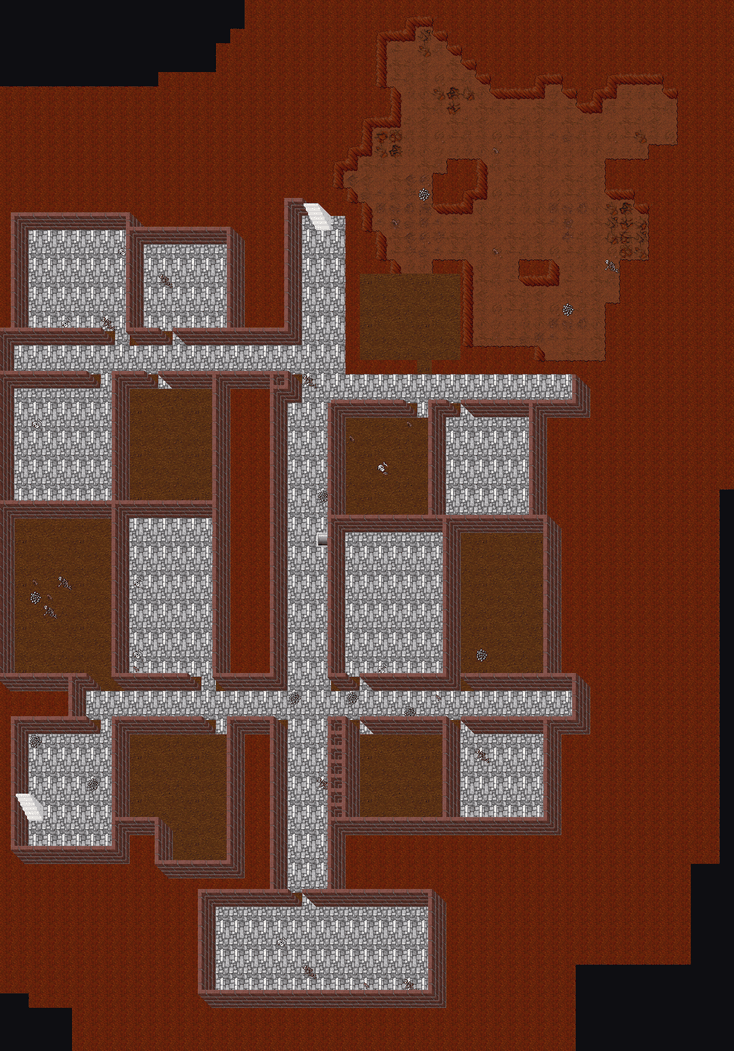
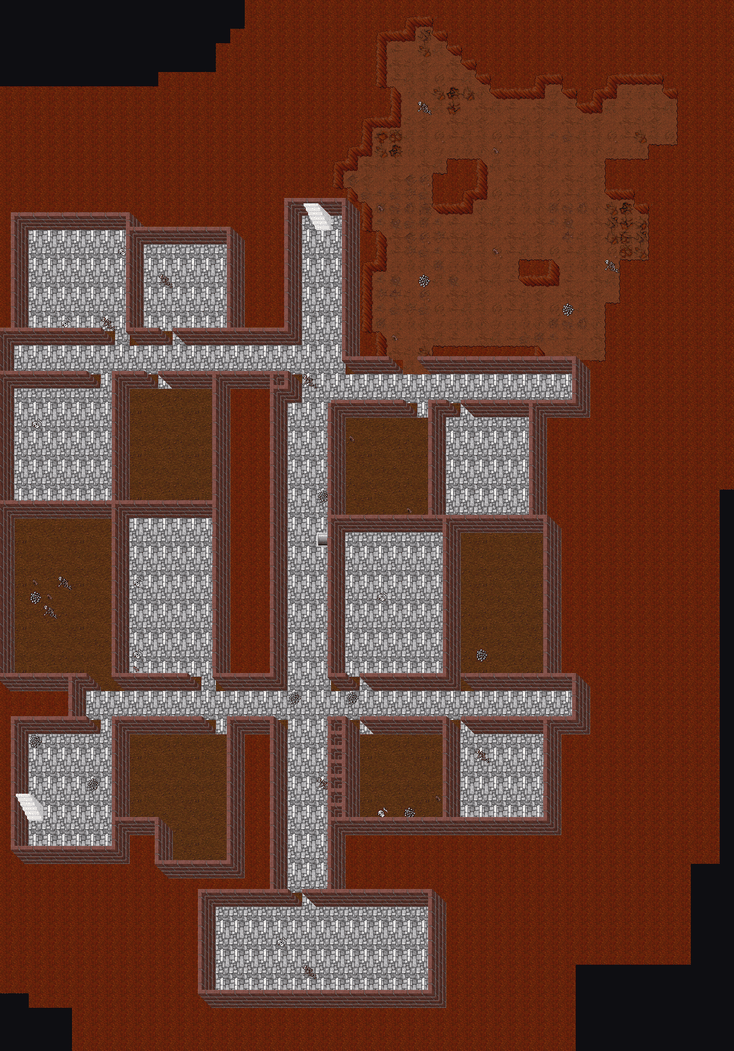
Dark Cathedral: antecamara J como camara de la cueva; la cueva ya no tapa paredes de ladrillo
La J era un cuadrado de tierra sin paredes pegado a la roca lisa (y los pasillos de al lado perdieron
la pared): cave_tiles vestia toda CAVE_BOX y solo se protegia el piso de las salas. Ahora J es una
camara de la cueva con boca de 2 casillas en el pasillo este (154-155,305), la cueva no pisa paredes
de ladrillo y el generador y audit-dark-cathedral.py fallan si un piso toca roca lisa 101.
Patron descartado documentado en DARK_CATHEDRAL.md y PIEZAS_DE_MAPA.md.

diff --git a/scripts/map/generate-dark-cathedral.py b/scripts/map/generate-dark-cathedral.py
@@ -149,7 +149,6 @@ AXIS_A, AXIS_B, AXIS_C = (29, 11, 31, 24), (28, 24, 30, 38), (28, 39, 30, 57)   
 H2 = (14, 44, 47, 45)                                       # pasillo sur
 ROOMS8 = [
     ("A", (10, 12, 16, 18), GREY), ("B", (18, 13, 23, 18), GREY),
-    ("J", (33, 15, 39, 20), DIRT),                          # antecámara de la cueva
     ("C", (9, 23, 15, 30), GREY), ("D", (17, 23, 22, 30), DIRT),
     ("K", (32, 25, 37, 31), DIRT), ("L", (39, 25, 44, 31), GREY),
     ("M", (9, 32, 15, 42), DIRT), ("N", (17, 32, 22, 42), GREY),
@@ -158,22 +157,26 @@ ROOMS8 = [
     ("S", (33, 47, 38, 52), DIRT), ("U", (40, 47, 45, 52), GREY),
     ("T", (23, 59, 37, 64), GREY),                          # sala del fondo
 ]
-LINKS8 = [("A", "H1A"), ("B", "H1A"), ("J", "H1B"),
+LINKS8 = [("A", "H1A"), ("B", "H1A"),
           ("C", "H1A"), ("D", "H1A"), ("K", "H1B"), ("L", "H1B"),
           ("M", "H2"), ("N", "H2"), ("O", "H2"), ("P", "H2"),
           ("Q", "H2"), ("R", "H2"), ("S", "H2"), ("U", "H2")]
 L_ROOMS8 = {"R": ((20, 52, 23, 55),)}                        # cola en L de la sala R
 # cueva NE: cámaras irregulares unidas por pasillos (como las salas G-J de la referencia).
 # Con la caja nueva hay margen al norte y al este, así que la red crece (no es sólo un desplazamiento).
+# La antecámara J de la referencia es una cámara más de la cueva, abierta al pasillo H1B. Antes era una
+# sala cuadrada de tierra y la cueva le pisaba las paredes: quedaba un recorte de tierra pegado a la roca
+# lisa, sin paredes (nov 2026, ver DARK_CATHEDRAL.md "Patrón descartado"). No volver a hacerla sala.
 CAVE_ROOMS = (((79, 26), 3.4), ((72, 23), 2.8), ((67, 28), 2.2), ((76, 31), 2.6),
               ((83, 32), 2.6), ((80, 38), 2.4), ((73, 37), 2.0), ((85, 24), 2.2),
-              ((70, 20), 2.0))
+              ((70, 20), 2.0), ((69, 37), 2.6))                # la última: antecámara J
 CAVE_LINKS = (((79, 26), (72, 23)), ((79, 26), (76, 31)), ((79, 26), (85, 24)),
               ((72, 23), (70, 20)), ((72, 23), (67, 28)), ((76, 31), (83, 32)),
               ((76, 31), (73, 37)), ((83, 32), (80, 38)), ((73, 37), (80, 38)),
-              ((67, 28), (73, 37)))
+              ((67, 28), (73, 37)), ((69, 37), (73, 37)), ((69, 37), (69, 40)))
 CAVE_BOX = (64, 17, 87, 42)
-CAVE_DOOR = ((69, 34), (70, 34))                            # entra desde la antecámara J
+CAVE_DOOR = ((69, 41), (70, 41))                            # boca: pared norte del pasillo H1B
+J_BOX8 = (66, 35, 72, 40)                                   # antecámara J (cámara de la cueva), para el spawn
 DOWN8 = (30, 33)                                            # agujero z8 -> z9
 
 MIRROR_X = 125                             # 2 * (DX + 29.5): eje de simetría del -2
@@ -258,7 +261,7 @@ ROOMS8_BOX = {n: b for n, b, _g in ROOMS8}                  # cajas ya desplazad
 SPAWNS8 = [
     ("A", ROOMS8_BOX["A"], [("Bandit", 2, 80), ("Smuggler", 1, 90)]),
     ("B", ROOMS8_BOX["B"], [("Wild Warrior", 2, 90), ("Bandit", 1, 80)]),
-    ("H1B", ROOMS8_BOX["J"], [("Bat", 1, 90), ("Centipede", 1, 110)]),
+    ("H1B", J_BOX8, [("Bat", 1, 90), ("Centipede", 1, 110)]),
     ("C", ROOMS8_BOX["C"], [("Bandit", 2, 80), ("Smuggler", 2, 90)]),
     ("D", ROOMS8_BOX["D"], [("Wild Warrior", 2, 90), ("Assassin", 1, 130)]),
     ("K", ROOMS8_BOX["K"], [("Slime", 2, 100), ("Poison Spider", 1, 110)]),
@@ -839,7 +842,7 @@ def main() -> int:
                        ("AXC", "AXB"), ("AXC", "H2"), ("AXC", "T")]
     t8, floor8, mask8 = build_zone(rooms8, links8, [], default_wall=BRICK, outside=ROCK)
     # cueva: discos unidos (contorno orgánico) que entra desde la sala J
-    cave = {CAVE_DOOR[0], CAVE_DOOR[1]}
+    cave = set(CAVE_DOOR)
     print(f"cueva z8: {len(cave)} casillas tras los discos")
     for (cx, cy), r in CAVE_ROOMS:
         for dx in range(-int(r) - 1, int(r) + 2):
@@ -875,10 +878,15 @@ def main() -> int:
     floor8 = (floor8 - cave) | cave                            # la cueva es piso: el relleno la rodea
     for c in grow(floor8 | mask8, 9):                          # 9 = media pantalla (8x6) + colchón:
         t8.setdefault(c, [ROCK])                               # sin esto se ve vacío negro al costado
+    walls8 = set(mask8)
     for c, it in cave_tiles.items():
-        if c not in rooms_floor8:                              # no pisa las salas de ladrillo
+        # no pisa las salas ni sus paredes de ladrillo (salvo la boca): si la cueva tapa la pared,
+        # el piso de la sala queda pegado a la roca lisa (era la antecámara J, nov 2026)
+        if c not in rooms_floor8 and (c not in walls8 or c in cave):
             t8[c] = it
     mask8 -= cave
+    for c in grow(set(CAVE_DOOR), 1) & mask8:                 # los extremos de pared junto a la boca
+        t8[c] = [t8[c][0], wall_piece(mask8, c, BRICK)]
     # lo que quedó suelto se vuelve roca (la cueva es una sola masa conectada a la boca)
     linked = set(reach(cave, CAVE_DOOR[0]))
     for c in cave - linked:
@@ -1035,6 +1043,16 @@ def main() -> int:
         if x < BAND[0] or x > W - 1 - BAND[0] or y < BAND[1] or y > H - 1 - BAND[1]:
             errors.append(f"z7 {(x, y)}: piso caminable dentro de la franja del borde")
             break
+
+    # ningún piso pegado a la roca lisa (101 sola): entre piso y relleno va pared de ladrillo o de cueva.
+    # Si no, se ve un recorte de tierra sin paredes (la antecámara J del -1, nov 2026).
+    for label, t, fl in (("z8", t8, walk8), ("z9", t9, walk9)):
+        for (x, y) in sorted(fl):
+            near = [(x + dx, y + dy) for dx in (-1, 0, 1) for dy in (-1, 0, 1)
+                    if t.get((x + dx, y + dy)) == [ROCK]]
+            if near:
+                errors.append(f"{label} {(x, y)}: piso pegado a roca lisa en {near[0]} (falta pared)")
+                break
 
     # cueva: ninguna roca de 1 casilla entre dos pisos (sin pieza posible: roca pelada)
     cave_f = {(x, y) for (x, y), it in t8.items() if it and it[0] in (CAVE_A, CAVE_B, CAVE_C)}

diff --git a/scripts/map/audit-dark-cathedral.py b/scripts/map/audit-dark-cathedral.py
@@ -14,6 +14,8 @@ Qué comprueba (error = sale con código 1):
   5. Spawns de test-spawn.xml dentro de la caja sobre piso pisable.
   6. Pilas raras: casillas sin ground, con 2+ grounds o con más de 2 ítems.
   7. Huesos de dragón cortados (3122-3127, 2247): partes del esqueleto grande, sueltas se ven mal.
+  7b. Piso pegado a la roca de relleno 101 sin pared en medio (se ve como un recorte de tierra sin
+      paredes; pasó con la antecámara J del -1).
 
 Informativo (no falla): decoración bloqueante en mitad de un paso (vecinos pisables en ambos
 ejes — los marcos de piedra de los agujeros van a aparecer, es a propósito) y, con --cuellos,
@@ -221,6 +223,20 @@ def main() -> int:
         if ((x, y - 1) in w and (x, y + 1) in w) or ((x - 1, y) in w and (x + 1, y) in w):
             if any(bl.blocks(i) for i in it[1:]):
                 notes.append(f"z{z} {x},{y}: {it} con paso pisable en ambos ejes")
+
+    # --- 7b. piso pegado a roca lisa (sin pared) ----------------------------------------------------
+    # Un piso al lado de la roca de relleno (101 sola) se ve como un recorte de tierra sin paredes:
+    # pasó en la antecámara J del -1 (nov 2026), cuando la cueva pisaba las paredes de ladrillo.
+    # Entre piso y relleno siempre tiene que haber pared (ladrillo / piedra) o pared de cueva 356-367.
+    print("\n=== 7b. piso pegado a roca lisa 101 (sin pared) ===")
+    bare = 0
+    for z in zs:
+        for (x, y) in sorted(walks[z]):
+            near = [(x + dx, y + dy) for dx, dy in ALL8 if it_at(x + dx, y + dy, z) == [ROCK]]
+            if near:
+                bare += 1
+                errors.append(f"z{z} {x},{y}: piso pegado a roca lisa en {near[0]}, items={it_at(x, y, z)}")
+    print(f"pisos pegados a roca lisa: {bare}")
 
     # --- 8. cuellos de botella (opcional, lento) ---------------------------------------------------
     if a.cuellos:

diff --git a/docs/items-and-map/DARK_CATHEDRAL.md b/docs/items-and-map/DARK_CATHEDRAL.md
@@ -23,7 +23,7 @@ manifiesto tenga la misma caja, para poder re-ejecutarlo).
 | Pisos | x (abs) | y (abs) | Local | Qué cubre |
 |-------|---------|---------|-------|-----------|
 | z7 | 85–183 | 264–373 | 0–98 × 0–109 | Jungla del borde, ríos en arco, explanada de tierra, nave, ruinas oeste/este, salón gris, explanada del portal |
-| z8 | 85–183 | 264–373 | 0–98 × 0–109 | Cripta -1: eje N-S, dos pasillos E-O, 16 salas, cueva natural de 270 casillas al NE |
+| z8 | 85–183 | 264–373 | 0–98 × 0–109 | Cripta -1: eje N-S, dos pasillos E-O, 16 salas, cueva natural de 313 casillas al NE |
 | z9 | 85–183 | 264–373 | 0–98 × 0–109 | Cripta -2: sala de columnas, octógono, brazos, anillo en zigzag, sala oval, sala sur y final |
 
 **Layout y desplazamiento.** El diseño se dibujó en un espacio de 60×70; con la caja nueva (99×110)
@@ -79,9 +79,9 @@ Coordenadas absolutas (las locales del generador son `abs − (118,284)`).
 | Pasillo norte | `127–148 × 304–305` (oeste) y `149–165 × 306–307` (este) | En dos tramos, a distinta altura |
 | Pasillo sur | `132–165 × 328–329` | Cruza el eje |
 | Salas | A `128–134 × 296–302` · B `136–141 × 297–302` · C `127–133 × 307–314` · D `135–140 × 307–314` · K `150–155 × 309–315` · L `157–162 × 309–315` · M `127–133 × 316–326` · N `135–140 × 316–326` · O `150–156 × 317–326` · P `158–163 × 317–326` · Q `128–133 × 331–338` · R `135–141 × 331–336` (+ cola en L hasta `y 339`) · S `151–156 × 331–336` · U `158–163 × 331–336` | Losa `431` en pasillos y salas grises, tierra `103` en las otras; puertas de una casilla |
-| Antecámara de la cueva | J `151–157 × 299–304` | Tierra, conecta el pasillo este con la cueva |
+| Antecámara J | `151–157 × 299–304` | Ya no es una sala: es una cámara más de la cueva, abierta al pasillo este (ver [Patrón descartado](#patrón-descartado-sala-cuadrada-de-tierra-pegada-a-la-cueva-18-nov-2026)) |
 | Sala del fondo | T `141–155 × 343–348` | Losa `431`, cierre del eje |
-| Cueva natural | `150–172 × 282–304` (270 casillas) | Nueve cámaras irregulares unidas por pasillos orgánicos (discos + conectores), piso de cueva `351`/`352`/`355`, paredes de roca `356–367`; boca de dos casillas en `154–155,298` hacia la antecámara J. Deja una casilla de pared contra las salas de ladrillo y lo que queda suelto se vuelve roca. Las rocas de 1 casilla entre dos pisos de cueva se cavan antes de vestir (sin pieza: quedarían peladas) |
+| Cueva natural | `150–172 × 282–305` (313 casillas) | Diez cámaras irregulares unidas por pasillos orgánicos (discos + conectores; la décima es la antecámara J), piso de cueva `351`/`352`/`355`, paredes de roca `356–367`; boca de dos casillas en `154–155,305`, en la pared norte del pasillo este. Deja una casilla de pared contra las salas de ladrillo, **no pisa las paredes de ladrillo** (salvo la boca) y lo que queda suelto se vuelve roca. Las rocas de 1 casilla entre dos pisos de cueva se cavan antes de vestir (sin pieza: quedarían peladas) |
 
 ### z9 — cripta (-2)
 
@@ -214,6 +214,7 @@ El generador, si algo falla, no escribe el `.otbm`.
 | Ids | todos los ítems existen en `items-zagan-test.otb` | 0 errores |
 | Monstruos | todos registrados en `monsters.xml` | 0 errores |
 | Spawns | cada bloque sobre piso caminable | 0 errores (125) |
+| Piso pegado a roca lisa | ninguna casilla pisable de z8/z9 con un `101` solo entre sus 8 vecinas (faltaría la pared) | 0 |
 | Rocas de 1 casilla | ninguna roca `101` con piso de cueva en dos cardinales opuestos (quedaría pelada) | 0 |
 | Vacío mismo piso | la media pantalla (8×6) de cada pisable de z8/z9 tiene tile dentro de la caja | 0 |
 | Escombros | `RUBBLE`/`STONE` nunca en mitad de un paso ni donde corten el único acceso | validado al colocar |
@@ -249,8 +250,8 @@ Cerca, no idéntico:
   cierra del todo (queda abierto al sudoeste, como en la referencia) y el agua es un cauce de ~6
   casillas, no un lago. El claro es una elipse irregular, más regular que el patio original.
 - **Piso -1.** La referencia tiene 20 salas etiquetadas A–T repartidas en un plano más ancho; acá hay
-  16 salas A–U más la antecámara J y la cueva, en una versión compacta. La cueva natural (G–J en la
-  referencia) llegó a 270 casillas con nueve cámaras y diez conexiones: se lee como red de cuevas,
+  16 salas A–U y la cueva, en una versión compacta. La cueva natural (G–J en la referencia, la J
+  incluida como cámara) llegó a 313 casillas con diez cámaras y doce conexiones: se lee como red de cuevas,
   pero sigue siendo más chica que la original (que ocupa casi todo el noreste del plano).
 - **Piso -2.** La referencia no es simétrica: brazo oeste con 4 salas, brazo este con 2 rombos y una
   sala oval grande, cruz central y anillo sur. Acá se respetó esa idea (el anillo y las salas
@@ -284,9 +285,36 @@ corregido en el generador:
 - **Huesos de dragón cortados**: la constante `DRAGON_SKELETON=3125` era una parte del esqueleto
   grande (rango 3122–3127); el pase de escombros ahora usa sólo huesos enteros.
 - **Puertas de 1 casilla por diseño** (no son bugs, quedan así a propósito): la boca de la cueva
-  (`155,305`, única vía a sala J + cueva), la puerta del patio de la bajada B (`133,336`) y las
+  (`154–155,305`, dos casillas, única vía a la cueva), la puerta del patio de la bajada B (`133,336`) y las
   puertas de las salas del anillo del -2. El marco de piedra de los agujeros deja bolsillos muertos
   de 1–2 casillas en el patio B (`127,333`, `128,337`): cosmético, nadie queda atrapado.
+
+## Patrón descartado: sala cuadrada de tierra pegada a la cueva (18 nov 2026)
+
+**Qué se veía** (captura in-game, z8 `151–157 × 299–304`): la antecámara J era un rectángulo de
+tierra `103` sin paredes, pegado directo a la roca lisa `101`, con los pasillos de losa al lado también
+sin pared (44 casillas pisables tocaban la roca lisa, `147–161 × 295–306`). Se leía como un recorte
+cuadrado hecho en la roca, no como sala ni como cueva.
+
+**Por qué:** J era una sala de ladrillo dentro de `CAVE_BOX`. `cave_tiles()` viste toda la caja de la
+cueva (piso, paredes `356–367` y roca `101` donde no toca piso) y el generador sólo protegía el **piso**
+de las salas, no sus paredes. La cueva tapó con roca lisa las paredes de J y las de los pasillos H1B y
+del eje que caían en la caja.
+
+**Cómo quedó:**
+
+- J dejó de ser sala: es una cámara más de la cueva (`CAVE_ROOMS`, `((69, 37), 2.6)` en la caja local),
+  unida a la cámara `(73, 37)` y con boca de dos casillas en la pared norte del pasillo H1B
+  (`CAVE_DOOR`, `154–155,305`). El spawn de murciélago + ciempiés sigue en esa zona (`J_BOX8`).
+- La cueva no pisa paredes de ladrillo (`walls8`); los extremos de pared junto a la boca se vuelven a
+  calcular con `wall_piece`.
+- Validación nueva en el generador y en `audit-dark-cathedral.py` (chequeo 7b): **ningún piso pisable
+  pegado a un `101` solo** en sus 8 vecinas. Si vuelve a pasar, el generador no escribe el mapa.
+
+**No volver a usar:** salas rectangulares de tierra como entrada a una cueva, ni ninguna sala sin pared
+contra la roca. Entre piso y relleno siempre va pared: de ladrillo/piedra en las salas, `356–367` en la
+cueva. La entrada a una cueva desde una construcción es una boca en la pared de ladrillo que da
+directo al piso de cueva.
 
 ## Estado
 

diff --git a/docs/items-and-map/MAPEAR_DARK_CATHEDRAL.md b/docs/items-and-map/MAPEAR_DARK_CATHEDRAL.md
@@ -25,7 +25,7 @@ Referencias del diseño: `img/dark-cathedral-ref/` (`Dark_Cathedral_0.png` super
 | Piso | Contenido |
 |------|-----------|
 | **z7** superficie | Jungla densa en el borde, ríos en arco que casi rodean el predio y una explanada de tierra con el claro de la iglesia (sin halo de césped). Nave NEGRA de mármol (norte-sur, 8×28) con columnas de piedra, dos filas de bancos, entrada al sur y brecha al norte. Edificio del oeste con 5 salas, ruinas del este con 4 salas chicas, sala gris del sur con dos filas de bancos y sala gris del oeste con la bajada. Dos bajadas: jungla norte y oeste. |
-| **z8** cripta (-1) | Ladrillo sobre roca: eje norte-sur largo y quebrado (tres tramos) desde la bajada de la jungla hasta la sala del fondo (T), dos pasillos este-oeste con 16 salas a los lados (A–U) y una **cueva natural ramificada** de 270 casillas al noreste (nueve cámaras irregulares unidas por pasillos, piso de cueva) para rotworms y no-muertos. |
+| **z8** cripta (-1) | Ladrillo sobre roca: eje norte-sur largo y quebrado (tres tramos) desde la bajada de la jungla hasta la sala del fondo (T), dos pasillos este-oeste con 16 salas a los lados (A–U) y una **cueva natural ramificada** de 313 casillas al noreste (diez cámaras irregulares unidas por pasillos, piso de cueva; la antecámara J es una de ellas y se entra desde el pasillo este) para rotworms y no-muertos. |
 | **z9** cripta profunda (-2) | Sala grande al norte con laberinto de columnas de piedra (ítem 1514), octógono central con la escalera, brazo oeste con 4 salas en H, brazo este con 2 salas rombo y la sala oval, **anillo sur en zigzag** (baja, sale, baja y vuelve a entrar) con dos salas a cada lado, pasillo central, sala grande central sur (negra) y sala final con el portal. |
 
 ![Cripta -1](img/dark-cathedral-z8.png)
@@ -51,7 +51,7 @@ Referencias del diseño: `img/dark-cathedral-ref/` (`Dark_Cathedral_0.png` super
 | Rellano de la bajada A | `x 145–152`, `y 293–297` |
 | z8: eje (3 tramos) | `x 147–149`, `y 295–308` · `x 146–148`, `y 308–324` · `x 147–149`, `y 324–341` |
 | z8: pasillos | `y 305–306`, `x 127–148` · `y 308–309`, `x 148–165` · `y 326–327`, `x 132–165` |
-| z8: cueva de los gusanos | `x 150–172`, `y 282–304` (270 casillas; entra desde la sala J) |
+| z8: cueva de los gusanos | `x 150–172`, `y 282–305` (313 casillas; boca `154–155,305` en el pasillo este) |
 | z8: sala del fondo (T) | `x 141–155`, `y 342–347` |
 | z9: sala de las columnas | `x 135–160`, `y 292–308` |
 | z9: octógono | `x 143–152`, `y 314–320` |
@@ -127,7 +127,9 @@ la misma caja). Es re-ejecutable: borra su caja, reescribe spawns, carteles y ma
   contra 1515/1549/1551/1560/3766/3767).
 - **Cueva del -1:** varias cámaras (discos con borde irregular) unidas por pasillos sobre
   `cave_tiles` de `generate-north-pass.py` (piso 351/352/355, paredes de roca 356–367), con una boca
-  de dos casillas a la sala J. Las rocas de 1 casilla entre dos pisos se cavan antes de vestir
+  de dos casillas en la pared del pasillo este. La cueva **no pisa las paredes de ladrillo** (antes
+  tapaba las de la antecámara J y quedaba un cuadrado de tierra pegado a la roca lisa: ver
+  [DARK_CATHEDRAL.md](DARK_CATHEDRAL.md#patrón-descartado-sala-cuadrada-de-tierra-pegada-a-la-cueva-18-nov-2026)). Las rocas de 1 casilla entre dos pisos se cavan antes de vestir
   (quedarían peladas, sin pieza).
 - **Vista previa = como en el juego.** `write_preview` compone los sprites con `game_render`
   (altura de paredes/columnas incluida), así los PNG del doc se ven como in-game.
@@ -143,5 +145,5 @@ la misma caja). Es re-ejecutable: borra su caja, reescribe spawns, carteles y ma
 - **Escaleras y portales** se validan antes de escribir: llegadas libres, todo el piso alcanzable
   desde la llegada, paredes con una sola pieza, ids del `.otb` y monstruos registrados. Además (nov
   2026): escombros nunca en mitad de un paso ni donde corten el único acceso, ninguna roca de 1
-  casilla entre dos pisos de cueva y ninguna casilla sin tile a la vista en z8/z9 (media pantalla
+  casilla entre dos pisos de cueva, ningún piso pegado a la roca lisa `101` (falta de pared) y ninguna casilla sin tile a la vista en z8/z9 (media pantalla
   8×6 de cada pisable, relleno de roca a 9).

diff --git a/docs/items-and-map/PIEZAS_DE_MAPA.md b/docs/items-and-map/PIEZAS_DE_MAPA.md
@@ -138,6 +138,10 @@ Paredes de tierra `356–367` (`WALL_SIDE`, `WALL_CORNER`, `WALL_INNER` en `gene
 - **Nada de vacío a la vista:** desde cualquier piso caminable, media pantalla (8×6 casillas) tiene que
   ser roca o mapa, nunca casillas sin tile (se ven negras).
 - **No pisar lo ajeno:** el piso necesita sus 8 vecinas propias (la pared es de la cueva).
+- **Nunca piso pegado a la roca lisa `101`.** Entre el piso y el relleno va pared: `356–367` en la cueva,
+  ladrillo/piedra en las salas. Si una cueva se viste al lado de una construcción, no le tapa las paredes;
+  la entrada es una boca en la pared que da al piso de cueva, no una sala cuadrada de tierra (se ve como un
+  recorte sin paredes). Lo valida `audit-dark-cathedral.py` (chequeo 7b).
 - **Decoración que no se mueve ni se levanta.** Barriles y cajas se empujan y traban el paso; los huesos
   agarrables se tiran. Las piedras/musgo de 2x2 se dibujan hacia arriba-izquierda: solo donde tapan pared.
 - **Huesos enteros, no piezas del esqueleto de dragón.** `2247` (cabeza), `3122`–`3127` (garra, costillas,
@@ -189,4 +193,5 @@ Un generador nuevo con muebles tiene que traer las mismas comprobaciones.
 | Valle de las Bestias: cabezas y garras de dragón cortadas en el suelo (2247, 3125, 3122) (nov 2026) | Son piezas del esqueleto grande; usar huesos enteros (ver [Cuevas](#cuevas)) |
 | Dungeon de la city: vacío negro al costado, rocas peladas sin borde, salones cuadrados vacíos y fogata encima de la escalera de mano (nov 2026) | Ver [Cuevas](#cuevas) y [MAPEAR_DUNGEON_CITY.md](MAPEAR_DUNGEON_CITY.md#errores-que-ya-pasaron-arreglados-16-nov-2026) |
 | Dark Cathedral: piedra aleatoria en mitad del pasillo H2 (`145,328,8`) dejó el ala oeste de la cripta (274 casillas, con la bajada B) colgando de UNA casilla (18 nov 2026) | Los escombros bloqueantes se validan al colocar (patrón `decorate_cave`): nunca en mitad de un paso (vecinos pisables en ambos ejes) ni donde corten el único acceso |
+| Dark Cathedral: la antecámara J del -1 era un cuadrado de tierra sin paredes pegado a la roca lisa, y los pasillos de al lado también perdieron la pared (18 nov 2026) | La cueva tapaba con roca las paredes de ladrillo de su caja. J pasó a ser cámara de la cueva; validar que ningún piso toque un `101` solo. Ver [DARK_CATHEDRAL.md](DARK_CATHEDRAL.md#patrón-descartado-sala-cuadrada-de-tierra-pegada-a-la-cueva-18-nov-2026) |
 | Dark Cathedral: vacío negro en el MISMO piso de la cripta (200 pisables de z8 lo veían desde el borde de la cueva) y 17 rocas de 1 casilla entre dos pisos (18 nov 2026) | Relleno de roca a `grow(...,9)` (media pantalla 8×6 + colchón) y cavar las rocas de 1 casilla; `check-upper-view.py` no cubre el vacío del mismo piso — validar la ventana de cada pisable |
